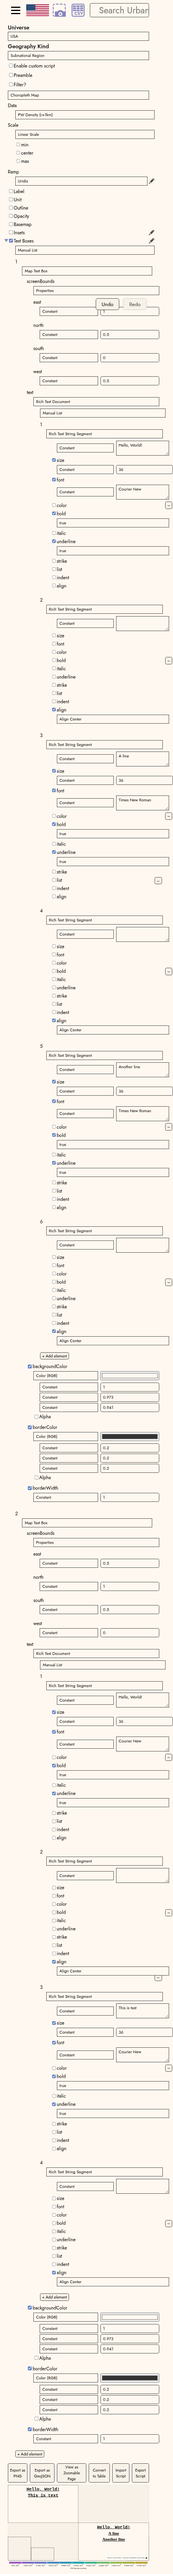
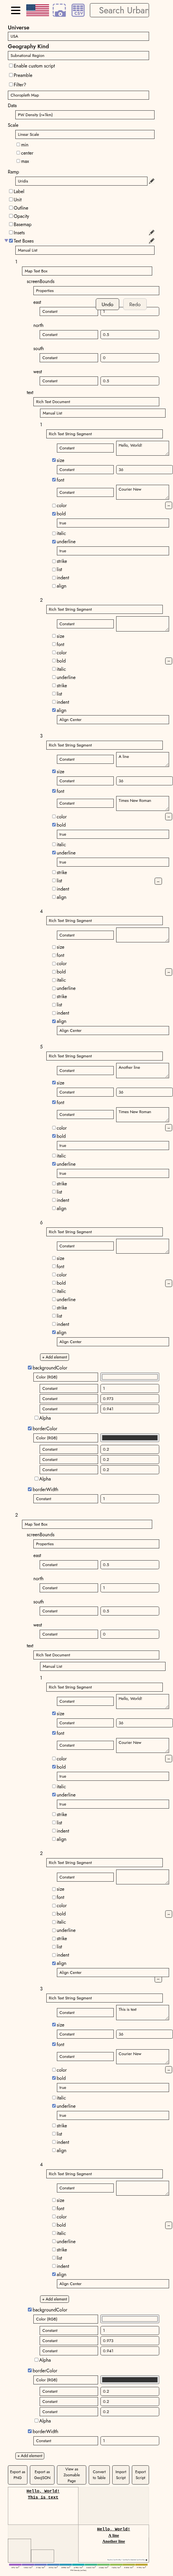
Fix AutoUX text area in collapsable section size sync (#1894)

diff --git a/react/src/mapper/settings/TopLevelEditor.tsx b/react/src/mapper/settings/TopLevelEditor.tsx
@@ -9,6 +9,7 @@ import { EditorError } from '../../urban-stats-script/editor-utils'
 import { unparse, parseNoErrorAsCustomNode } from '../../urban-stats-script/parser'
 import { TypeEnvironment, USSType } from '../../urban-stats-script/types-values'
 import { AssignmentsResult } from '../../urban-stats-script/workerManager'
+import { TextAreaSizeContextProvider } from '../../utils/text-area-size-sync'
 
 import { AutoUXEditor } from './AutoUXEditor'
 import { ConditionEditor } from './ConditionEditor'
@@ -103,27 +104,29 @@ export function TopLevelEditor({
         )
     }
     return (
-        <div>
-            <div style={{ margin: '0.5em 0px' }} />
-            <CheckboxSettingCustom
-                name="Enable custom script"
-                checked={uss.type === 'customNode'}
-                onChange={(checked) => {
-                    if (checked) {
-                        assert(uss.type === 'statements', 'USS should be statements when enabling custom script')
-                        setUss(parseNoErrorAsCustomNode(unparse(uss, { simplify: 'auto-ux' }), rootBlockIdent), {})
-                    }
-                    else {
-                        assert(uss.type === 'customNode', 'USS should not be a custom node when disabled')
-                        setUss(attemptParseAsTopLevel(uss.expr, typeEnvironment, false, targetOutputTypes), {})
-                    }
-                }}
-            />
-            { subcomponent() }
-            <DisplayResults
-                editor={false}
-                results={errors.filter(e => e.location.start.block.type === 'multi')}
-            />
-        </div>
+        <TextAreaSizeContextProvider>
+            <div>
+                <div style={{ margin: '0.5em 0px' }} />
+                <CheckboxSettingCustom
+                    name="Enable custom script"
+                    checked={uss.type === 'customNode'}
+                    onChange={(checked) => {
+                        if (checked) {
+                            assert(uss.type === 'statements', 'USS should be statements when enabling custom script')
+                            setUss(parseNoErrorAsCustomNode(unparse(uss, { simplify: 'auto-ux' }), rootBlockIdent), {})
+                        }
+                        else {
+                            assert(uss.type === 'customNode', 'USS should not be a custom node when disabled')
+                            setUss(attemptParseAsTopLevel(uss.expr, typeEnvironment, false, targetOutputTypes), {})
+                        }
+                    }}
+                />
+                { subcomponent() }
+                <DisplayResults
+                    editor={false}
+                    results={errors.filter(e => e.location.start.block.type === 'multi')}
+                />
+            </div>
+        </TextAreaSizeContextProvider>
     )
 }

diff --git a/react/src/utils/text-area-size-sync.tsx b/react/src/utils/text-area-size-sync.tsx
@@ -1,0 +1,65 @@
+import assert from 'assert'
+
+import React, { ReactNode, useContext, useEffect, useRef } from 'react'
+
+import { DefaultMap } from './DefaultMap'
+
+type TextAreaContextMap = DefaultMap<string, Set<(newHeight: number) => void>>
+
+// Used to sync textarea heights even among inert textareas (so that collapse size is correct)
+const textAreaSizeContext = React.createContext<TextAreaContextMap | undefined>(undefined)
+
+export function TextAreaSizeContextProvider({ children }: { children: ReactNode }): ReactNode {
+    const map = useRef<TextAreaContextMap>(new DefaultMap(() => new Set()))
+    return (
+        <textAreaSizeContext.Provider value={map.current}>
+            {children}
+        </textAreaSizeContext.Provider>
+    )
+}
+
+// Syncs text area height to others with the same identifier
+export function useTextAreaSizeSync(textAreaRef: React.RefObject<HTMLTextAreaElement>, identifier: string): void {
+    const sizeContext = useContext(textAreaSizeContext)
+    assert(sizeContext !== undefined, 'Missing textAreaSizeContext')
+
+    useEffect(() => {
+        assert(textAreaRef.current !== null, 'text area ref not assigned')
+        const textArea = textAreaRef.current
+
+        let ignore = 0
+
+        const myCallback = (newHeight: number): void => {
+            ignore++
+            textArea.style.height = `${newHeight}px`
+        }
+
+        const animationFrameRequests = new Set<number>()
+
+        const resizeObserver = new ResizeObserver(() => {
+            if (ignore > 0) {
+                ignore--
+                return
+            }
+            const height = textArea.offsetHeight
+            // prevent the browser from firing a warning... we prevent recursion via ignore
+            const animationFrameRequestId = requestAnimationFrame(() => {
+                animationFrameRequests.delete(animationFrameRequestId)
+                for (const callback of sizeContext.get(identifier)) {
+                    if (callback !== myCallback) {
+                        callback(height)
+                    }
+                }
+            })
+            animationFrameRequests.add(animationFrameRequestId)
+        })
+        resizeObserver.observe(textArea)
+        sizeContext.get(identifier).add(myCallback)
+
+        return () => {
+            animationFrameRequests.forEach(cancelAnimationFrame)
+            resizeObserver.disconnect()
+            sizeContext.get(identifier).delete(myCallback)
+        }
+    }, [identifier, sizeContext, textAreaRef])
+}

diff --git a/react/test/mapper-ux_x1.test.ts b/react/test/mapper-ux_x1.test.ts
@@ -1,4 +1,4 @@
-import { Selector } from 'testcafe'
+import { ClientFunction, Selector } from 'testcafe'
 
 import { nthEditor, typeInEditor } from './editor_test_utils'
 import { checkSelector, getCodeFromMainField, getErrors, getInput, replaceInput, toggleCustomScript, urlFromCode } from './mapper-utils'
@@ -185,6 +185,33 @@ mapper(() => test)('custom ramp intermediate deletions keep code valid', { code:
 )
 `)
     await t.expect(getErrors()).eql([])
+})
+
+mapper(() => test)('label resize sync', { code: `cMap(
+    data=density_pw_1km,
+    scale=linearScale(),
+    ramp=rampGistRainbow,
+    textBoxes=[
+        textBox(
+            screenBounds={north: 0.75, east: 0.75, south: 0.25, west: 0.25},
+            text=rtfDocument([rtfString("some text\\n")]),
+            backgroundColor=rgb(1, 0.973, 0.941),
+            borderColor=rgb(0.2, 0.2, 0.2),
+            borderWidth=1
+        )
+    ]
+)` }, async (t) => {
+    await t.resizeWindow(400, 800)
+    await toggleCustomScript(t)
+    await t.eval(() => {
+        const textArea: HTMLTextAreaElement = document.querySelector('textarea:not([inert] *)')!
+        textArea.style.height = '200px'
+    })
+    await t.expect(ClientFunction(() => {
+        const addElementButton = Array.from(document.querySelectorAll('[data-test-id="test-add-vector-element-button"]:not([inert] *)')).pop()!
+        const exportPngButton = Array.from(document.querySelectorAll('button:not([inert] *)')).find(button => button.textContent === 'Export as PNG')!
+        return addElementButton.getBoundingClientRect().bottom < exportPngButton.getBoundingClientRect().top
+    })()).ok()
 })
 
 // Tests for Convert to Table button

diff --git a/react/src/mapper/settings/Selector.tsx b/react/src/mapper/settings/Selector.tsx
@@ -1,6 +1,6 @@
 import ColorLib from 'color'
 import stableStringify from 'json-stable-stringify'
-import React, { ReactNode, useMemo, useCallback } from 'react'
+import React, { ReactNode, useMemo, useCallback, useRef } from 'react'
 
 import { colorThemes } from '../../page_template/color-themes'
 import { useColors } from '../../page_template/colors'
@@ -14,6 +14,7 @@ import { emptyLocation } from '../../urban-stats-script/lexer'
 import { parseNoErrorAsCustomNode, parseNoErrorAsExpression } from '../../urban-stats-script/parser'
 import { Documentation, TypeEnvironment, USSType } from '../../urban-stats-script/types-values'
 import { TestUtils } from '../../utils/TestUtils'
+import { useTextAreaSizeSync } from '../../utils/text-area-size-sync'
 
 import * as l from './../../urban-stats-script/literal-parser'
 import { BetterSelector, SelectorRenderResult } from './BetterSelector'
@@ -143,8 +144,13 @@ export function Selector(props: {
 }
 
 function TextInput({ currentValue, blockIdent, setUss }: { currentValue: string, blockIdent: string, setUss: (u: UrbanStatsASTExpression, o: ActionOptions) => void }): ReactNode {
+    const textAreaRef = useRef<HTMLTextAreaElement>(null)
+
+    useTextAreaSizeSync(textAreaRef, blockIdent)
+
     return (
         <textarea
+            ref={textAreaRef}
             value={currentValue}
             onChange={(e) => {
                 const value = e.target.value
